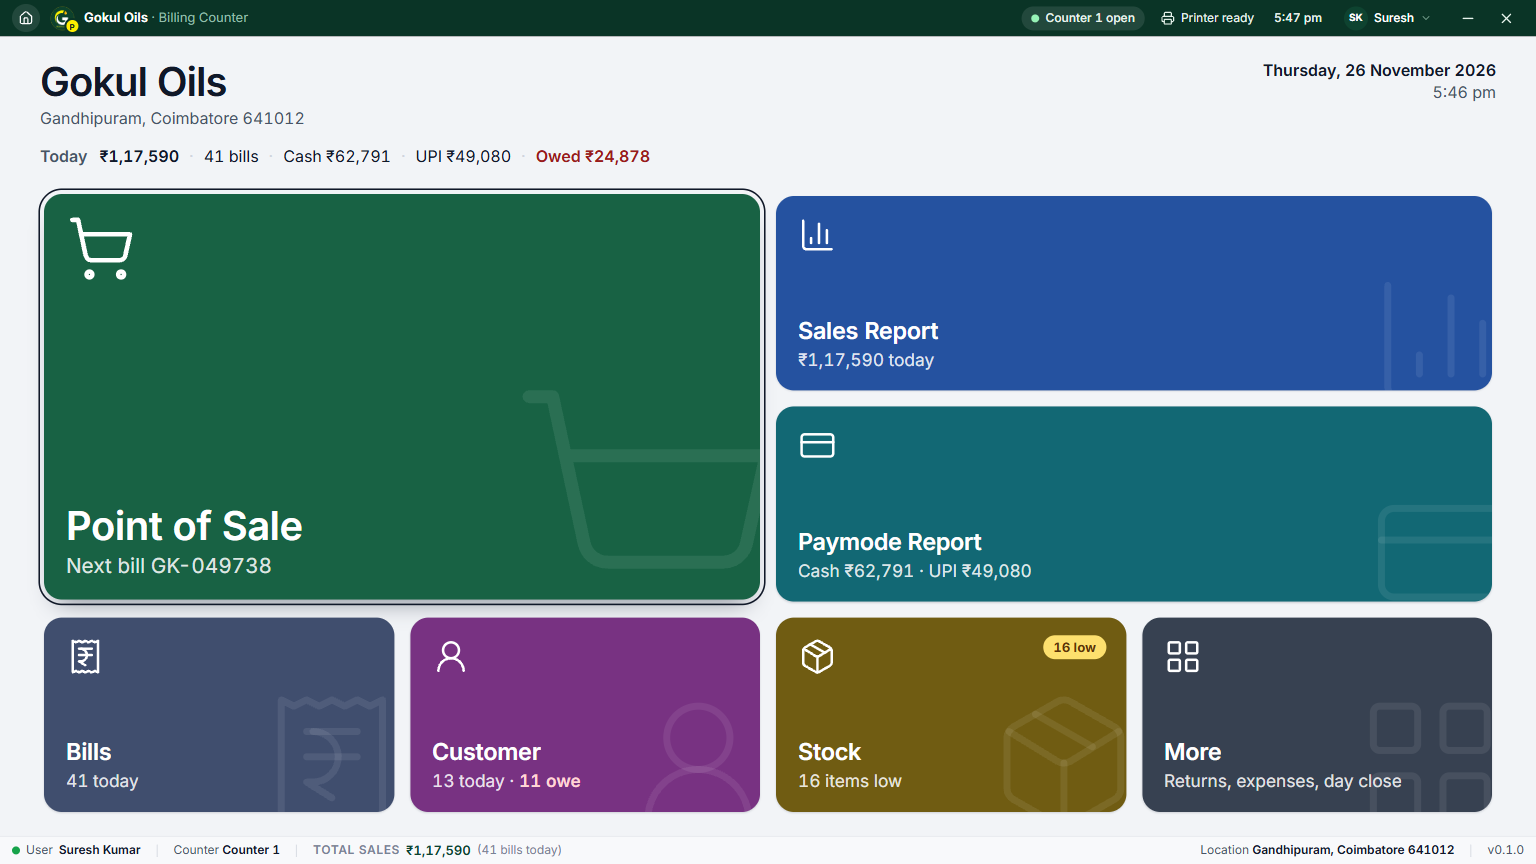
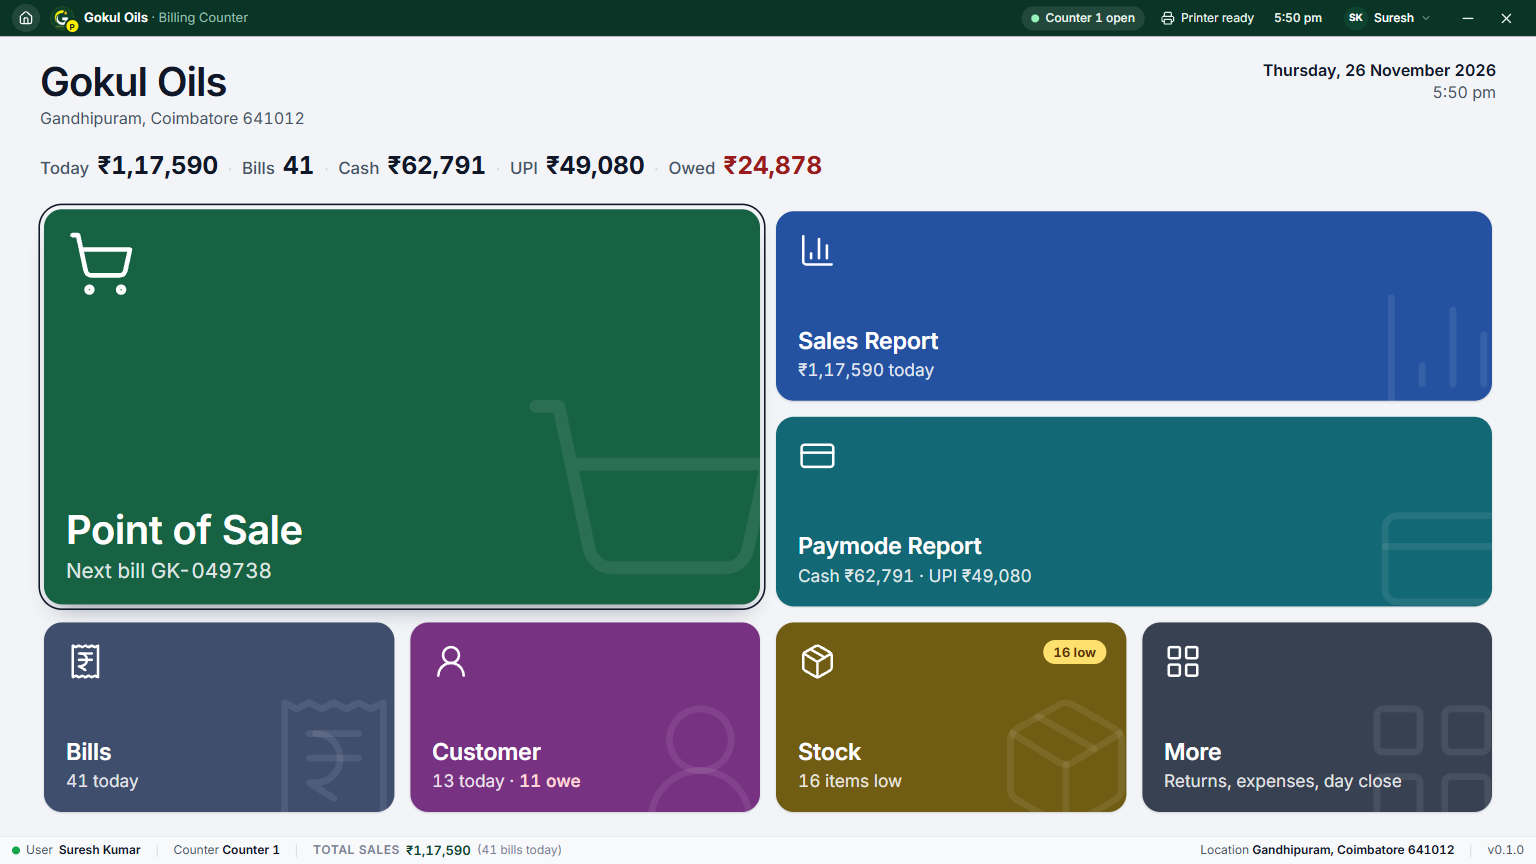
Home: Today line numbers bold and larger, labels small grey before each number

diff --git a/apps/pos/src/pages/Home.tsx b/apps/pos/src/pages/Home.tsx
@@ -170,13 +170,12 @@ export function HomePage() {
           <div className="min-w-0">
             <h1 className="home-title truncate text-[40px] font-semibold leading-[1.1] tracking-tight text-ink min-[1600px]:text-[52px]">{shopName || 'Gokul Oils'}</h1>
             <div className="mt-1 truncate text-md text-muted min-[1600px]:text-lg">{town}</div>
-            <div className="num mt-4 flex flex-wrap items-baseline whitespace-nowrap text-md text-ink min-[1600px]:text-lg">
-              <span className="mr-3 font-semibold text-muted">Today</span>
-              <span className="font-semibold">{rupees(d?.todaySales ?? 0)}</span>{sep}
-              <span>{d?.todayBills ?? 0} {d?.todayBills === 1 ? 'bill' : 'bills'}</span>{sep}
-              <span>Cash {rupees(d?.cash ?? 0)}</span>{sep}
-              <span>UPI {rupees(d?.upi ?? 0)}</span>{sep}
-              <span className="font-semibold text-[rgb(var(--money-owed-ink))]">Owed {rupees(live.owed)}</span>
+            <div className="home-today num mt-4 flex items-baseline whitespace-nowrap">
+              <span className="home-lbl">Today</span><span className="home-val">{rupees(d?.todaySales ?? 0)}</span>{sep}
+              <span className="home-lbl">Bills</span><span className="home-val">{d?.todayBills ?? 0}</span>{sep}
+              <span className="home-lbl">Cash</span><span className="home-val">{rupees(d?.cash ?? 0)}</span>{sep}
+              <span className="home-lbl">UPI</span><span className="home-val">{rupees(d?.upi ?? 0)}</span>{sep}
+              <span className="home-lbl">Owed</span><span className="home-val home-owed">{rupees(live.owed)}</span>
             </div>
           </div>
           <div className="num shrink-0 text-right">

diff --git a/apps/pos/src/pages/home.css b/apps/pos/src/pages/home.css
@@ -38,3 +38,6 @@
   background: rgb(253 224 110); color: rgb(92 51 8); font-size: 13px; font-weight: 700; line-height: 20px;
 }
 @media (max-height: 760px) { h1.home-title { font-size: 32px; } .home-tile { padding: 14px 18px; } }
+.home-today .home-lbl { font-size: clamp(14px, 1.95vh, 17px); font-weight: 500; color: rgb(71 85 105); margin-right: 8px; }
+.home-today .home-val { font-size: clamp(20px, 2.85vh, 28px); font-weight: 700; color: rgb(var(--ink)); letter-spacing: -0.01em; }
+.home-today .home-val.home-owed { color: rgb(var(--money-owed-ink)); }
